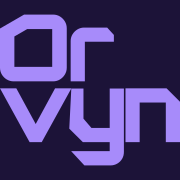
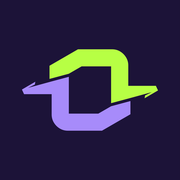
melhorias visuais

diff --git a/style.css b/style.css
@@ -2,7 +2,7 @@
 
 /* Tokens */
 :root{
-  --ink:#1C1338;--lilac:#A78BFA;--paper:#F5F5F5;
+  --ink:#1C1338;--lilac:#A78BFA;--lime:#B7FF44;--paper:#F5F5F5;
   --bg:#F5F5F5;--bg2:#E8E5F2;--tx:#1C1338;--mut:#5b5478;
   --line:rgba(28,19,56,.14);--accent-tx:#6D4FD6;--soft:#d9d3ee;
   --nav-h:64px;
@@ -27,24 +27,25 @@ section{padding:112px 0}
 .alt{background:var(--bg2)}
 
 /* Botões */
-.btn{display:inline-block;padding:14px 26px;text-decoration:none;font:700 14px Orbitron,sans-serif;text-transform:uppercase;letter-spacing:.06em;background:var(--lilac);color:var(--ink);clip-path:polygon(0 0,100% 0,100% 68%,93% 100%,0 100%);transition:transform .2s;border:0;cursor:pointer}
-.btn:hover{transform:translateY(-3px)}
+.btn{display:inline-block;padding:14px 26px;text-decoration:none;font:700 14px Orbitron,sans-serif;text-transform:uppercase;letter-spacing:.06em;background:var(--lime);color:var(--ink);clip-path:polygon(0 0,100% 0,100% 68%,93% 100%,0 100%);transition:transform .2s,background .2s;border:0;cursor:pointer}
+.btn:hover{transform:translateY(-3px);background:var(--lilac)}
 .btn.ghost{background:transparent;color:var(--paper);box-shadow:inset 0 0 0 2px var(--lilac);clip-path:none}
+.btn.ghost:hover{background:transparent;box-shadow:inset 0 0 0 2px var(--lime);color:var(--lime)}
 
 /* Navegação */
 nav{position:sticky;top:env(safe-area-inset-top,0px);z-index:5;background:var(--ink);color:var(--paper);border-bottom:1px solid rgba(167,139,250,.25)}
 nav .wrap{display:flex;justify-content:space-between;align-items:center;height:var(--nav-h)}
 nav a{text-decoration:none;font-size:15px;margin-left:22px}
-nav .brand{margin:0;font:900 24px Orbitron,sans-serif;color:var(--lilac)}
-nav a.btn{background:var(--lilac);color:var(--ink);padding:8px 16px;font-weight:500;font-size:15px;font-family:inherit;text-transform:none;letter-spacing:0;clip-path:polygon(0 0,100% 0,100% 70%,92% 100%,0 100%)}
+nav .brand{margin:0;display:block;line-height:0}nav .brand img{display:block;height:30px;width:auto}
+nav a.btn{background:var(--lime);color:var(--ink);padding:8px 16px;font-weight:500;font-size:15px;font-family:inherit;text-transform:none;letter-spacing:0;clip-path:polygon(0 0,100% 0,100% 70%,92% 100%,0 100%)}
 
 /* Topo */
-.hero{background:var(--ink);color:var(--paper);overflow:hidden;padding:40px 0;min-height:calc(100vh - var(--nav-h) - 76px);min-height:calc(100svh - var(--nav-h) - 76px);display:flex;
+.hero{position:relative;background:var(--ink);color:var(--paper);overflow:hidden;padding:40px 0;min-height:calc(100vh - var(--nav-h) - 76px);min-height:calc(100svh - var(--nav-h) - 76px);display:flex;
   background-image:linear-gradient(rgba(167,139,250,.08) 1px,transparent 1px),linear-gradient(90deg,rgba(167,139,250,.08) 1px,transparent 1px);background-size:56px 56px}
-.hero>.wrap{width:100%;align-self:center}
-.hero .logo{font:900 clamp(56px,min(15vw,25svh),184px)/.9 Orbitron,sans-serif;color:var(--lilac);letter-spacing:-.02em;animation:rise 1s cubic-bezier(.2,.8,.2,1) both}
+.hero>.wrap{width:100%;align-self:center;position:relative;z-index:1}
+.hero .logo{line-height:0;animation:rise 1s cubic-bezier(.2,.8,.2,1) both}.hero .logo img{display:block;width:auto;max-width:100%;height:clamp(64px,min(21vw,26svh),210px)}
 .hero-b{display:grid;grid-template-columns:1fr 1fr;gap:56px;align-items:start;margin-top:32px;padding-top:32px;border-top:1px solid rgba(167,139,250,.3)}
-.hero h1{font-size:clamp(24px,3.6vw,46px);line-height:1.1;animation:rise 1s .15s both}
+.hero h1{font-size:clamp(24px,3.6vw,46px);line-height:1.1;animation:rise 1s .15s both}.hero h1 em{font-style:normal;color:var(--lime)}
 .hero p{max-width:46ch;font-size:18px;color:var(--soft);animation:rise 1s .3s both}
 .cta{display:flex;gap:12px;flex-wrap:wrap;margin:24px 0 0;animation:rise 1s .45s both}
 .cta .btn{padding:13px 20px;font-size:13px}
@@ -58,7 +59,7 @@ nav a.btn{background:var(--lilac);color:var(--ink);padding:8px 16px;font-weight:
 .strip.rev{background:var(--ink);color:var(--lilac);padding:22px 0;font-size:40px}
 .strip.rev .track{animation-direction:reverse;animation-duration:60s}
 .strip.rev .grp span{color:transparent;-webkit-text-stroke:1.5px var(--lilac)}
-.strip.rev .grp span:after{background:var(--lilac)}
+.strip.rev .grp span:after{background:var(--lime)}
 @keyframes slide{to{transform:translateX(-50%)}}
 @keyframes rise{from{opacity:0;transform:translateY(28px)}to{opacity:1;transform:none}}
 
@@ -104,16 +105,16 @@ nav a.btn{background:var(--lilac);color:var(--ink);padding:8px 16px;font-weight:
 .pc h3{font-size:18px;margin-bottom:8px}
 .pc p{color:var(--mut);font-size:15px}
 .pc .project-deliverables,.pc .project-media-links{margin-top:10px}.pc .project-link{display:inline-block;margin-top:14px;padding:9px 13px;background:var(--lilac);color:var(--ink);font-size:13px;font-weight:700;text-decoration:none}.pc .project-media-links a{color:var(--accent-tx)}
-.tag{display:inline-block;font-size:13px;background:var(--lilac);color:var(--ink);padding:3px 10px;margin-bottom:12px}
+.tag{display:inline-block;font-size:13px;background:var(--lime);color:var(--ink);padding:3px 10px;margin-bottom:12px}
 
 /* Mapa */
 .mapbox{display:grid;grid-template-columns:1fr 1fr;gap:48px;align-items:center}
 .mapbox .n{font:900 clamp(56px,10vw,96px)/1 Orbitron,sans-serif;color:var(--accent-tx)}
 .tiles{display:grid;grid-template-columns:repeat(7,1fr);gap:6px;max-width:440px}
 .tiles i{font:700 13px Orbitron,sans-serif;font-style:normal;aspect-ratio:1;display:flex;align-items:center;justify-content:center;border:1px solid var(--line);color:var(--mut);clip-path:polygon(0 0,100% 0,100% 72%,86% 100%,0 100%)}
-.tiles i.on{background:var(--lilac);color:var(--ink);border-color:var(--lilac)}
+.tiles i.on{background:var(--lime);color:var(--ink);border-color:var(--lime)}
 .leg{display:flex;gap:18px;font-size:14px;color:var(--mut);margin-top:18px}
-.leg b{display:inline-block;width:14px;height:14px;background:var(--lilac);margin-right:6px;vertical-align:-2px}
+.leg b{display:inline-block;width:14px;height:14px;background:var(--lime);margin-right:6px;vertical-align:-2px}
 
 /* Depoimentos */
 .fb{display:grid;grid-template-columns:repeat(auto-fit,minmax(280px,1fr));gap:24px}
@@ -138,9 +139,10 @@ summary{cursor:pointer;font:700 16px Orbitron,sans-serif;text-transform:uppercas
 details p{margin-top:12px;color:var(--mut);max-width:62ch}
 
 /* Chamada final e rodapé */
-.end{background:var(--ink);color:var(--paper);text-align:center;padding:110px 0}
+.end{position:relative;overflow:hidden;background:var(--ink);color:var(--paper);text-align:center;padding:110px 0}
+.end>.wrap{position:relative;z-index:1}
 .end h2{margin:0 auto 20px;max-width:16ch;font-size:clamp(32px,6vw,68px)}
-.end h2 em{font-style:normal;color:var(--lilac)}
+.end h2 em{font-style:normal;color:var(--lime)}
 .end p{max-width:50ch;margin:0 auto 32px;color:var(--soft)}
 .end .btn{margin:4px 6px}
 footer{background:var(--ink);color:#b9b1d6;text-align:center;font-size:14px;padding:0 0 28px}
@@ -149,13 +151,13 @@ footer p a{margin-left:10px;color:var(--lilac)}
 .social{display:flex;justify-content:center;gap:14px;margin:0 auto 28px}
 .social a{width:52px;height:52px;display:flex;align-items:center;justify-content:center;color:var(--lilac);box-shadow:inset 0 0 0 1px rgba(167,139,250,.55);clip-path:polygon(0 0,100% 0,100% 72%,72% 100%,0 100%);transition:background .2s,color .2s}
 .social svg{width:24px;height:24px;fill:none;stroke:currentColor;stroke-width:1.8;stroke-linecap:round;stroke-linejoin:round}
-.social a:hover,.social a:focus-visible{background:var(--lilac);color:var(--ink)}
+.social a:hover,.social a:focus-visible{background:var(--lime);color:var(--ink)}
 
 /* Voltar ao início */
 .up{position:fixed;right:max(20px,env(safe-area-inset-right,0px));bottom:calc(20px + env(safe-area-inset-bottom,0px));z-index:4;width:48px;height:48px;display:flex;align-items:center;justify-content:center;
   background:var(--lilac);color:var(--ink);font:900 22px Orbitron,sans-serif;text-decoration:none;clip-path:polygon(0 0,100% 0,100% 70%,70% 100%,0 100%);
   opacity:0;transform:translateY(12px);pointer-events:none;transition:opacity .25s,transform .25s}
-.up.show{opacity:1;transform:none;pointer-events:auto}
+.up.show{opacity:1;transform:none;pointer-events:auto}.up:hover{background:var(--lime)}
 
 /* Agendamento (janela) */
 dialog{margin:auto;border:0;border-top:6px solid var(--lilac);padding:30px;max-width:520px;width:calc(100% - 32px);max-height:calc(100dvh - 32px);overflow:auto;background:var(--bg);color:var(--tx);box-shadow:0 24px 80px rgba(0,0,0,.45)}
@@ -185,7 +187,7 @@ details.dd[open]{padding-bottom:14px}
 .who{display:grid;grid-template-columns:repeat(3,1fr);gap:8px;margin-top:8px}
 .opt{display:block;text-decoration:none;text-align:left;font:400 13px/1.4 Inter,sans-serif;color:var(--mut);background:none;border:1px solid var(--line);padding:14px 12px;cursor:pointer;transition:background .2s,color .2s}
 .opt b{display:block;font:700 15px Orbitron,sans-serif;color:var(--tx);margin-bottom:6px}
-.opt:hover,.opt:focus-visible{background:var(--lilac);border-color:var(--lilac);color:var(--ink)}
+.opt:hover,.opt:focus-visible{background:var(--lime);border-color:var(--lime);color:var(--ink)}
 .opt:hover b,.opt:focus-visible b{color:var(--ink)}
 dialog .btn.x{padding:13px 20px;font-size:13px}
 @media(max-width:560px){.who{grid-template-columns:1fr}}
@@ -214,3 +216,4 @@ dialog .btn.x{padding:13px 20px;font-size:13px}
 .fb img,.fb video{display:block;width:100%;max-height:260px;object-fit:cover;margin:0 0 14px}
 .fb audio{display:block;width:100%;margin:0 0 14px}
 .fb figure p{margin:0 0 14px;font-size:15px}.fb figure p a{color:var(--accent-tx)}
+

diff --git a/index.html b/index.html
@@ -3,7 +3,7 @@
 <head>
 <meta charset="utf-8">
 <meta name="viewport" content="width=device-width, initial-scale=1, viewport-fit=cover">
-<title>Orvyn – O mundo já viu o suficiente!</title>
+<title>Orvyn – O mundo digital, já viu o suficiente!</title>
 <meta name="description" content="Orvyn é uma agência de design e desenvolvimento que traz o que foi esquecido de volta à vida, com tecnologia.">
 <link rel="icon" href="favicon.svg" type="image/svg+xml">
 <link rel="icon" href="favicon.ico" sizes="48x48">
@@ -15,11 +15,11 @@
 <link rel="stylesheet" href="style.css">
 </head>
 <body id="topo">
-<nav><div class="wrap"><a class="brand" href="#topo" aria-label="Orvyn, voltar ao início">Orvyn</a><div><a href="#historia">Nossa história</a><a href="#servicos">Serviços</a><a href="#projetos">Projetos</a><a href="#mapa">Onde atuamos</a><a href="#time">Quem somos</a><a class="btn" href="#agendar" data-agendar>Falar com a gente</a></div></div></nav>
+<nav><div class="wrap"><a class="brand" href="#topo" aria-label="Orvyn, voltar ao início"><img src="logo.svg" alt="Orvyn" width="112" height="30"></a><div><a href="#historia">Nossa história</a><a href="#servicos">Serviços</a><a href="#projetos">Projetos</a><a href="#mapa">Onde atuamos</a><a href="#time">Quem somos</a><a class="btn" href="#agendar" data-agendar>Falar com a gente</a></div></div></nav>
 
 <header class="hero"><div class="wrap">
-<div class="logo">Orvyn</div>
-<div class="hero-b"><h1>O mundo já viu o suficiente!</h1><div><p>Em um mundo tão tecnológico, a Orvyn volta às velhas cinzas, traz as antiguidades à tona e dá vida ao que veio antes de nós. Uma agência que ressurgiu para mudar o mundo e trazer “coisas” de outro mundo para o nosso.</p><div class="cta"><a class="btn" href="#agendar" data-agendar>Falar com a gente</a><a class="btn ghost" href="#historia">Conhecer a Orvyn</a></div></div></div>
+<div class="logo"><img src="logo.svg" alt="Orvyn"></div>
+<div class="hero-b"><h1>O mundo digital, já viu o <em>suficiente!</em></h1><div><p>Em um mundo tão tecnológico, a Orvyn volta às velhas cinzas, traz as antiguidades à tona e dá vida ao que veio antes de nós. Uma agência que ressurgiu para mudar o mundo e trazer “coisas” de outro mundo para o nosso.</p><div class="cta"><a class="btn" href="#agendar" data-agendar>Falar com a gente</a><a class="btn ghost" href="#historia">Conhecer a Orvyn</a></div></div></div>
 </div></header>
 <div class="strip" aria-hidden="true"></div>
 
@@ -29,7 +29,7 @@
 <p>Toda marca tem a sua história, e a nossa nasceu de uma conversa entre dois amigos. Em meio a um mundo tão tecnológico, precisamos muitas vezes relembrar as velhas cinzas.</p>
 <p>Trazer as antiguidades à tona. Dar vida àqueles que pisaram aqui, nesta terra, muito antes de nós.</p>
 <p>Com isso nasceu a Orvyn: uma agência que ressurgiu e está mudando o mundo. Ninguém mais fica parado. Estamos trazendo “coisas” de outro mundo para o nosso mundo.</p>
-<blockquote>O mundo já viu o suficiente. Agora é hora de ver o que ressurgiu.</blockquote>
+<blockquote>O mundo digital, já viu o suficiente! Agora é hora de ver o que ressurgiu.</blockquote>
 </div></div></section>
 
 <section class="alt"><div class="wrap">
@@ -118,10 +118,13 @@
 <div class="social">
 <a href="https://www.instagram.com/agencia.orvyn/" target="_blank" rel="noopener" aria-label="Instagram da Orvyn" title="Instagram">
 <svg viewBox="0 0 24 24" aria-hidden="true"><rect x="3" y="3" width="18" height="18" rx="5"/><circle cx="12" cy="12" r="4.2"/><circle cx="17.4" cy="6.6" r="1" fill="currentColor" stroke="none"/></svg></a>
+<!-- TROCAR: coloque aqui o link do TikTok quando a conta existir (ex.: https://www.tiktok.com/@usuario) -->
+<a href="#" target="_blank" rel="noopener" aria-label="TikTok da Orvyn (em breve)" title="TikTok">
+<svg viewBox="0 0 24 24" aria-hidden="true"><path d="M15.5 3v10.2a4.7 4.7 0 1 1-4.7-4.7"/><path d="M15.5 3c.3 2.6 2.1 4.5 4.7 4.8"/></svg></a>
 <a href="mailto:agencia.orvyn@gmail.com" aria-label="E-mail: agencia.orvyn@gmail.com" title="agencia.orvyn@gmail.com">
 <svg viewBox="0 0 24 24" aria-hidden="true"><rect x="3" y="5" width="18" height="14" rx="2"/><path d="m3.5 7 8.5 6.5L20.5 7"/></svg></a>
 </div>
-<p>© 2026 Orvyn. O mundo já viu o suficiente!</p>
+<p>© 2026 Orvyn™. O mundo digital, já viu o suficiente!</p>
 </footer>
 <a class="up" href="#topo" aria-label="Voltar ao início">↑</a>
 

diff --git a/painel.css b/painel.css
@@ -1,7 +1,7 @@
 /* ===== Painel Orvyn — mesmo esquema do Caixa Aberto, com as cores da marca ===== */
 :root{
   --paper:#F5F4FA;--card:#FFFFFF;--ink:#1C1338;--soft:#5b5478;--line:#DDD8EE;
-  --brand:#A78BFA;--accent:#6D4FD6;--brand-bg:#ECE6FE;
+  --lime:#B7FF44;--brand:#A78BFA;--accent:#6D4FD6;--brand-bg:#ECE6FE;
   --emerald:#1F7A4D;--emerald-bg:#E4F1E8;--amber:#9A6510;--amber-bg:#FBEED9;--brick:#AE3B27;--brick-bg:#F7E4DE;
   --side:#1C1338;
   --display:Orbitron,"Segoe UI",sans-serif;--body:Inter,system-ui,sans-serif;
@@ -25,8 +25,8 @@ a{color:inherit}
 .btn{display:inline-block;border:0;border-radius:4px;padding:11px 18px;font:600 14px var(--body);text-decoration:none;text-align:center}
 .btn:active{transform:scale(.97)}
 .btn-block{width:100%}
-.btn-primary{background:var(--brand);color:#1C1338}
-.btn-primary:hover{opacity:.88}
+.btn-primary{background:var(--lime);color:#1C1338}
+.btn-primary:hover{background:var(--brand)}
 .btn-ghost{background:transparent;color:var(--ink);border:1.5px solid var(--line)}
 .btn-ghost:hover{border-color:var(--ink)}
 .btn-danger{background:transparent;color:var(--brick);border:1.5px solid var(--brick-bg)}
@@ -37,7 +37,7 @@ a{color:inherit}
 .lock-screen{min-height:100vh;display:flex;align-items:center;justify-content:center;padding:24px;
   background:radial-gradient(ellipse at top left,rgba(167,139,250,.25),transparent 55%),#150e2b}
 .lock-card{background:var(--card);border-radius:4px;padding:40px 36px;max-width:380px;width:100%;box-shadow:0 30px 60px rgba(0,0,0,.4);text-align:center;border-top:6px solid var(--brand)}
-.lock-logo{display:block;width:72px;height:72px;margin:0 auto 16px}
+.lock-logo{display:block;width:72px;height:72px;margin:0 auto 16px;border-radius:16px}
 .lock-title{font:900 24px var(--display);text-transform:uppercase;margin-bottom:6px}
 .lock-sub{color:var(--soft);font-size:14px;margin-bottom:22px}
 #lockForm{display:flex;flex-direction:column;gap:10px}
@@ -61,7 +61,7 @@ a{color:inherit}
 .nav-btn{display:flex;align-items:center;justify-content:space-between;text-align:left;background:transparent;border:0;color:#d9d3ee;padding:11px 12px;border-radius:4px;font-size:14px;font-weight:500}
 .nav-btn:hover{background:rgba(255,255,255,.07);color:#fff}
 .nav-btn.active{background:var(--brand);color:#1C1338;font-weight:600}
-.count{background:var(--brick);color:#fff;font-size:11px;font-weight:700;border-radius:10px;padding:1px 8px}
+.count{background:var(--lime);color:#1C1338;font-size:11px;font-weight:700;border-radius:10px;padding:1px 8px}
 .nav-link{color:#c9c1e6;font-size:13px;text-decoration:none;padding:9px 12px}
 .nav-link:hover{color:#fff}
 .btn-logout{background:transparent;border:1.5px solid rgba(255,255,255,.18);color:#d9d3ee;padding:9px 12px;border-radius:4px;font-size:12.5px;margin-top:8px}
@@ -182,4 +182,4 @@ details.novo>.fgrid{padding:18px;margin:0}
 
 /* Botão Ver o site */
 .site-btn{display:flex;align-items:center;justify-content:center;gap:8px;margin-top:14px;padding:11px 14px;border-radius:10px;background:rgba(167,139,250,.14);border:1.5px solid rgba(167,139,250,.5);color:var(--brand);font:600 14px var(--body);text-decoration:none;transition:background .15s,color .15s}
-.site-btn:hover,.site-btn:focus-visible{background:var(--brand);color:#1C1338}
+.site-btn:hover,.site-btn:focus-visible{background:var(--lime);border-color:var(--lime);color:#1C1338}

diff --git a/script.js b/script.js
@@ -25,6 +25,7 @@
     s.innerHTML = `<div class="track">${g}${g}</div>`;
   });
 
+
   /* Contador de estados atendidos */
   const cnt = $('#cnt');
   if (cnt) cnt.textContent = document.querySelectorAll('.tiles i.on').length;
